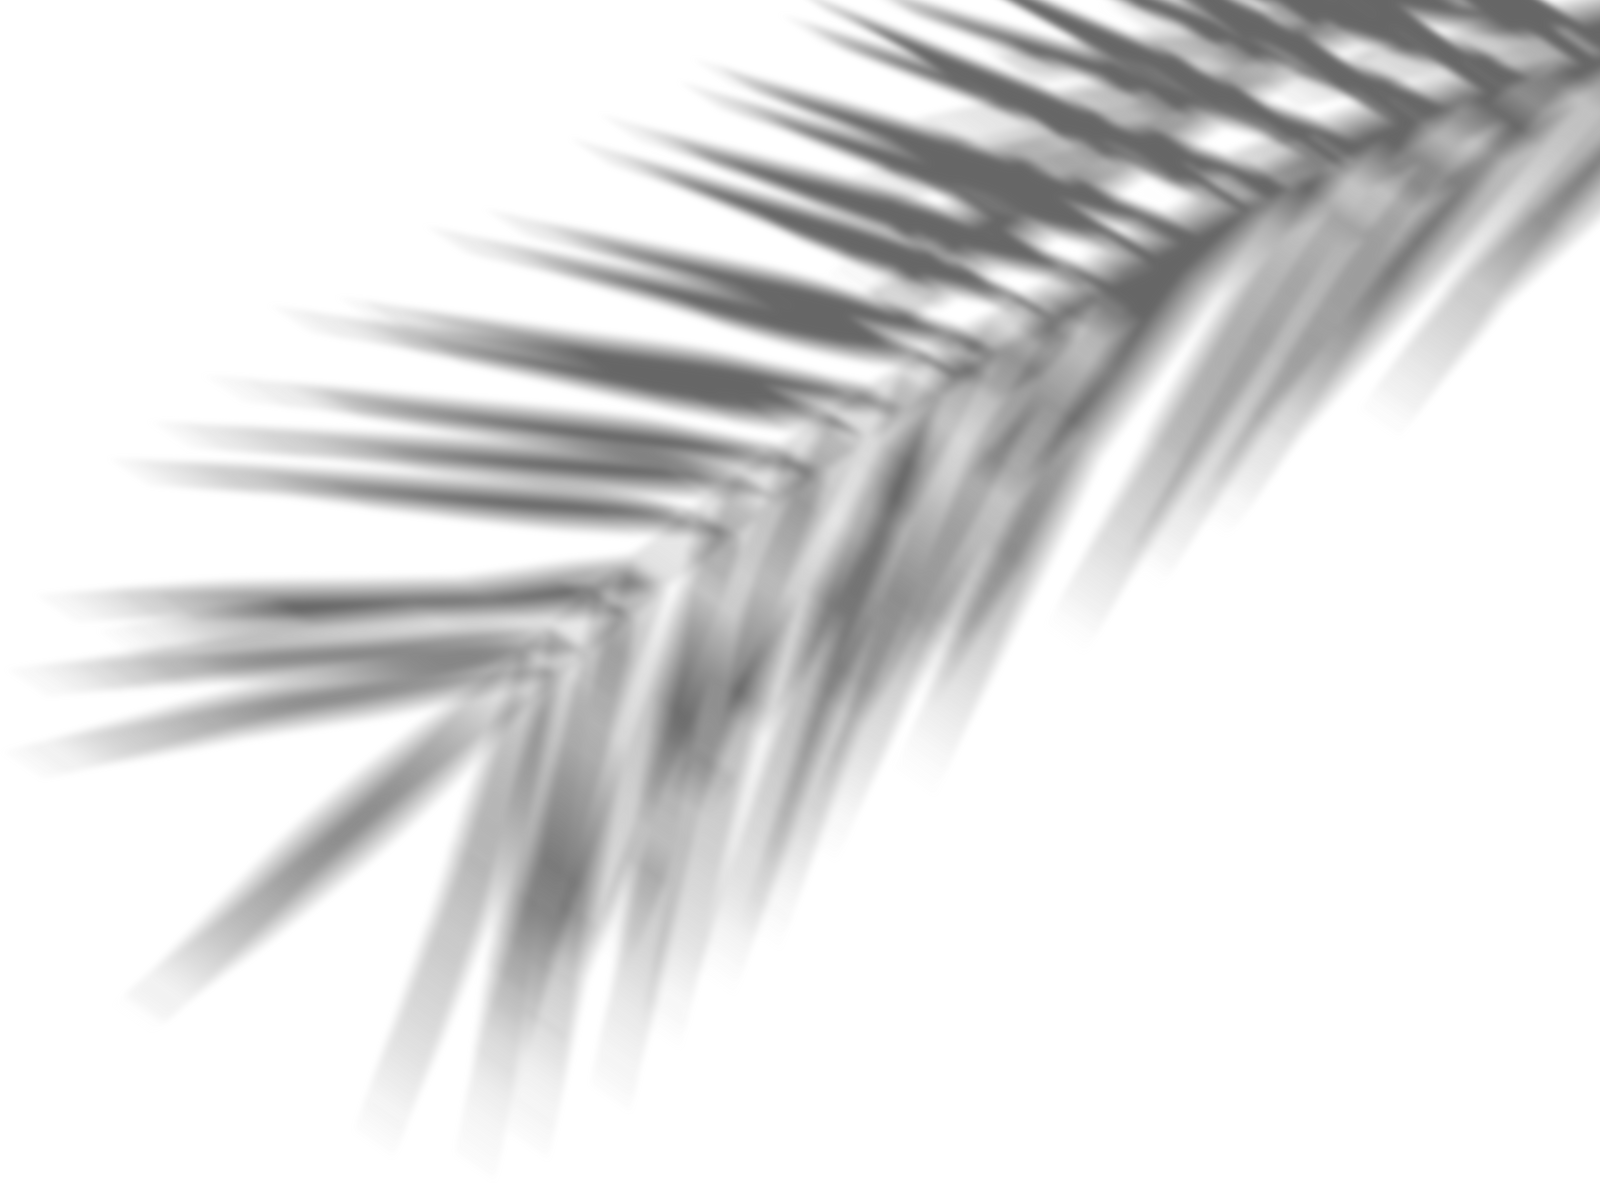
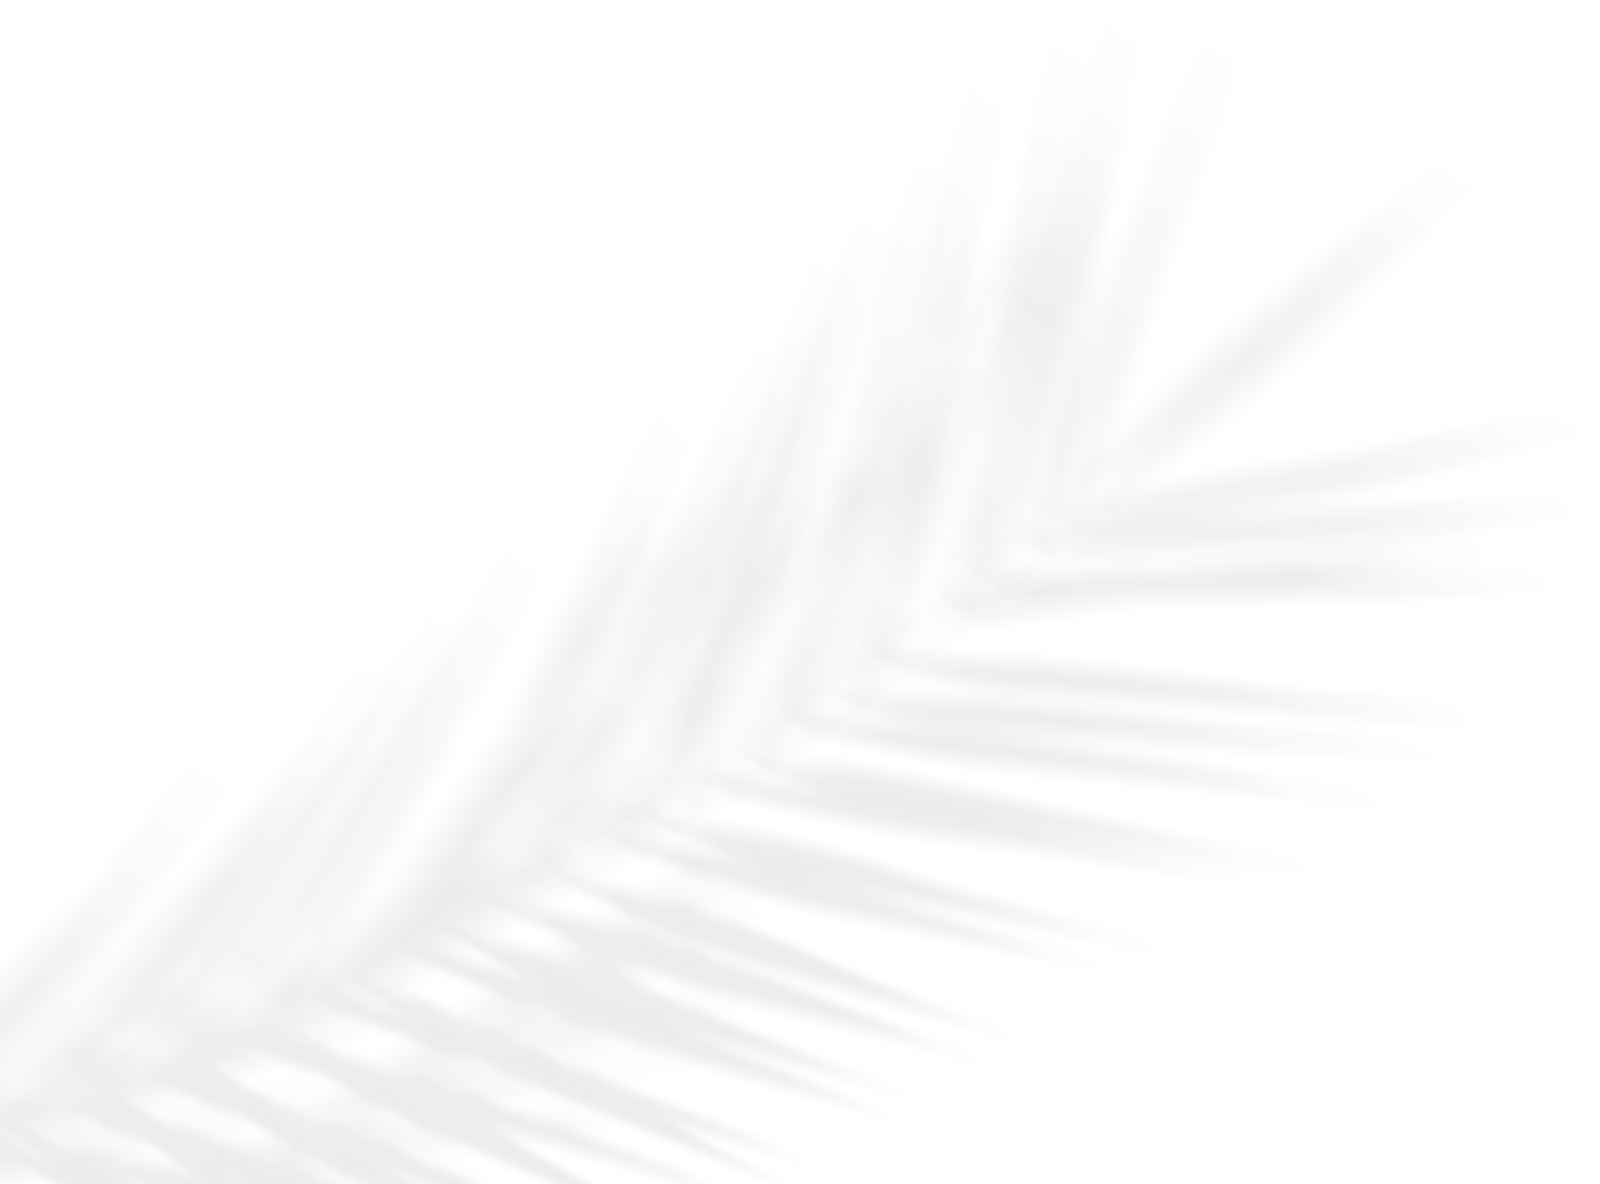
Front - Cleanup in styles, simplified bg

diff --git a/styles.css b/styles.css
@@ -1,14 +1,6 @@
 :root {
   --plain-font-family: "Cormorant Garamond", serif;
-  --plain-font-size: 12px;
-  --plain-font-style: normal;
-  --plain-font-variation-settings: "wdth" 100;
-
   --brand-font-family: "Nunito", serif;
-  --brand-font-size: 12px;
-  --brand-font-style: normal;
-  --brand-font-variation-settings: "wdth" 100;
-
   --on-surface-color: rgb(66, 63, 50);
   --surface-color: white;
   --surface-container-low-color: rgb(185, 203, 194);
@@ -16,9 +8,9 @@
 }
 
 html {
-  font-size: 18px;
-  height: 100vh;
-  width: 100vw;
+  font-size: 12pt;
+  height: 100%;
+  width: 100%;
 }
 
 body {
@@ -27,24 +19,11 @@ body {
   margin: 0;
   overflow: hidden;
   background-color: var(--background-color);
-}
-
-body::before {
-  content: "";
-  position: absolute;
-  width: 100%;
-  height: 100%;
-  z-index: -1;
-  bottom: 0;
   background-size: cover;
   background-image: url(./background.png);
   background-repeat: no-repeat;
   background-position-x: center;
   background-position-y: center;
-  background-attachment: fixed;
-  transform-origin: center center;
-  transform: rotate(-180deg);
-  opacity: 0.12;
 }
 
 main {
@@ -72,30 +51,28 @@ nav.main-nav {
   padding: 80px 25px 50px 25px;
   flex: 1;
   height: fit-content;
+  font-size: inherit;
 }
 
 .main-nav-header {
-  font-size: 2rem;
+  font-size: 1.5rem;
   margin: 0;
   font-weight: 600;
   text-align: center;
   font-family: var(--plain-font-family);
-  font-style: var(--plain-font-style);
-  font-variation-settings: var(--plain-font-variation-settings);
   color: var(--on-surface-color);
 }
 
 nav.main-nav a {
-  font-size: 1.5rem;
+  font-size: 1.2rem;
   font-family: var(--plain-font-family);
-  font-style: var(--plain-font-style);
-  font-variation-settings: var(--plain-font-variation-settings);
   color: var(--on-surface-color);
   background-color: var(--surface-color);
   border: 1px solid var(--on-surface-color);
   padding: 12px 25px;
   text-align: center;
   text-transform: capitalize;
+  text-decoration: underline;
 }
 
 .logo-box {
@@ -128,8 +105,6 @@ nav.main-nav a {
   text-align: center;
   letter-spacing: 0.378em;
   font-family: var(--brand-font-family);
-  font-style: var(--brand-font-style);
-  font-variation-settings: var(--brand-font-variation-settings);
   color: var(--on-surface-color);
 }
 
@@ -154,10 +129,6 @@ nav.main-nav a {
 
 @media (min-aspect-ratio: 1/1) {
   /* horizontal */
-  html {
-    font-size: 13px;
-  }
-
   main {
     flex-direction: row;
     align-items: flex-start;

diff --git a/index.html b/index.html
@@ -2,11 +2,14 @@
 <html>
   <head>
     <title>Stacja Celebracja</title>
-
+    <meta
+      name="viewport"
+      content="width=device-width, initial-scale=1, minimum-scale=1, maximum-scale=1"
+    />
     <link rel="preconnect" href="https://fonts.googleapis.com" />
     <link rel="preconnect" href="https://fonts.gstatic.com" crossorigin />
     <link
-      href="https://fonts.googleapis.com/css2?family=Cormorant+Garamond:ital,wght@0,300;0,400;0,500;0,600;0,700;1,300;1,400;1,500;1,600;1,700&family=Nunito:ital,wght@0,200..1000;1,200..1000&display=swap"
+      href="https://fonts.googleapis.com/css2?family=Cormorant+Garamond&family=Nunito&display=swap"
       rel="stylesheet"
     />
     <link href="./styles.css" rel="stylesheet" />
@@ -21,15 +24,17 @@
       </div>
       <nav class="main-nav">
         <h2 class="main-nav-header">OFERTA 2025/2026</h2>
-        <a href="./files/Stacja Celebracja - Budka pełna życzeń 2025.pdf"
+        <a download="./files/Stacja Celebracja - Budka pełna życzeń 2025.pdf"
           >Budka Pełna Życzeń</a
         >
-        <a href="./files/Stacja Celebracja - Drink piano 2025.pdf"
+        <a download="./files/Stacja Celebracja - Drink piano 2025.pdf"
           >Drink Piano</a
         >
-        <a href="./files/Stacja Celebracja - FotoVogue 2025.pdf">FotoVouge</a>
+        <a download="./files/Stacja Celebracja - FotoVogue 2025.pdf"
+          >FotoVouge</a
+        >
         <a title="Coming Soon!">Budka Telefoniczna Mini</a>
-        <a href="./files/Stacja Celebracja - Wedding Planner.pdf"
+        <a download="./files/Stacja Celebracja - Wedding Planner.pdf"
           >E-book Wedding Planner</a
         >
       </nav>
